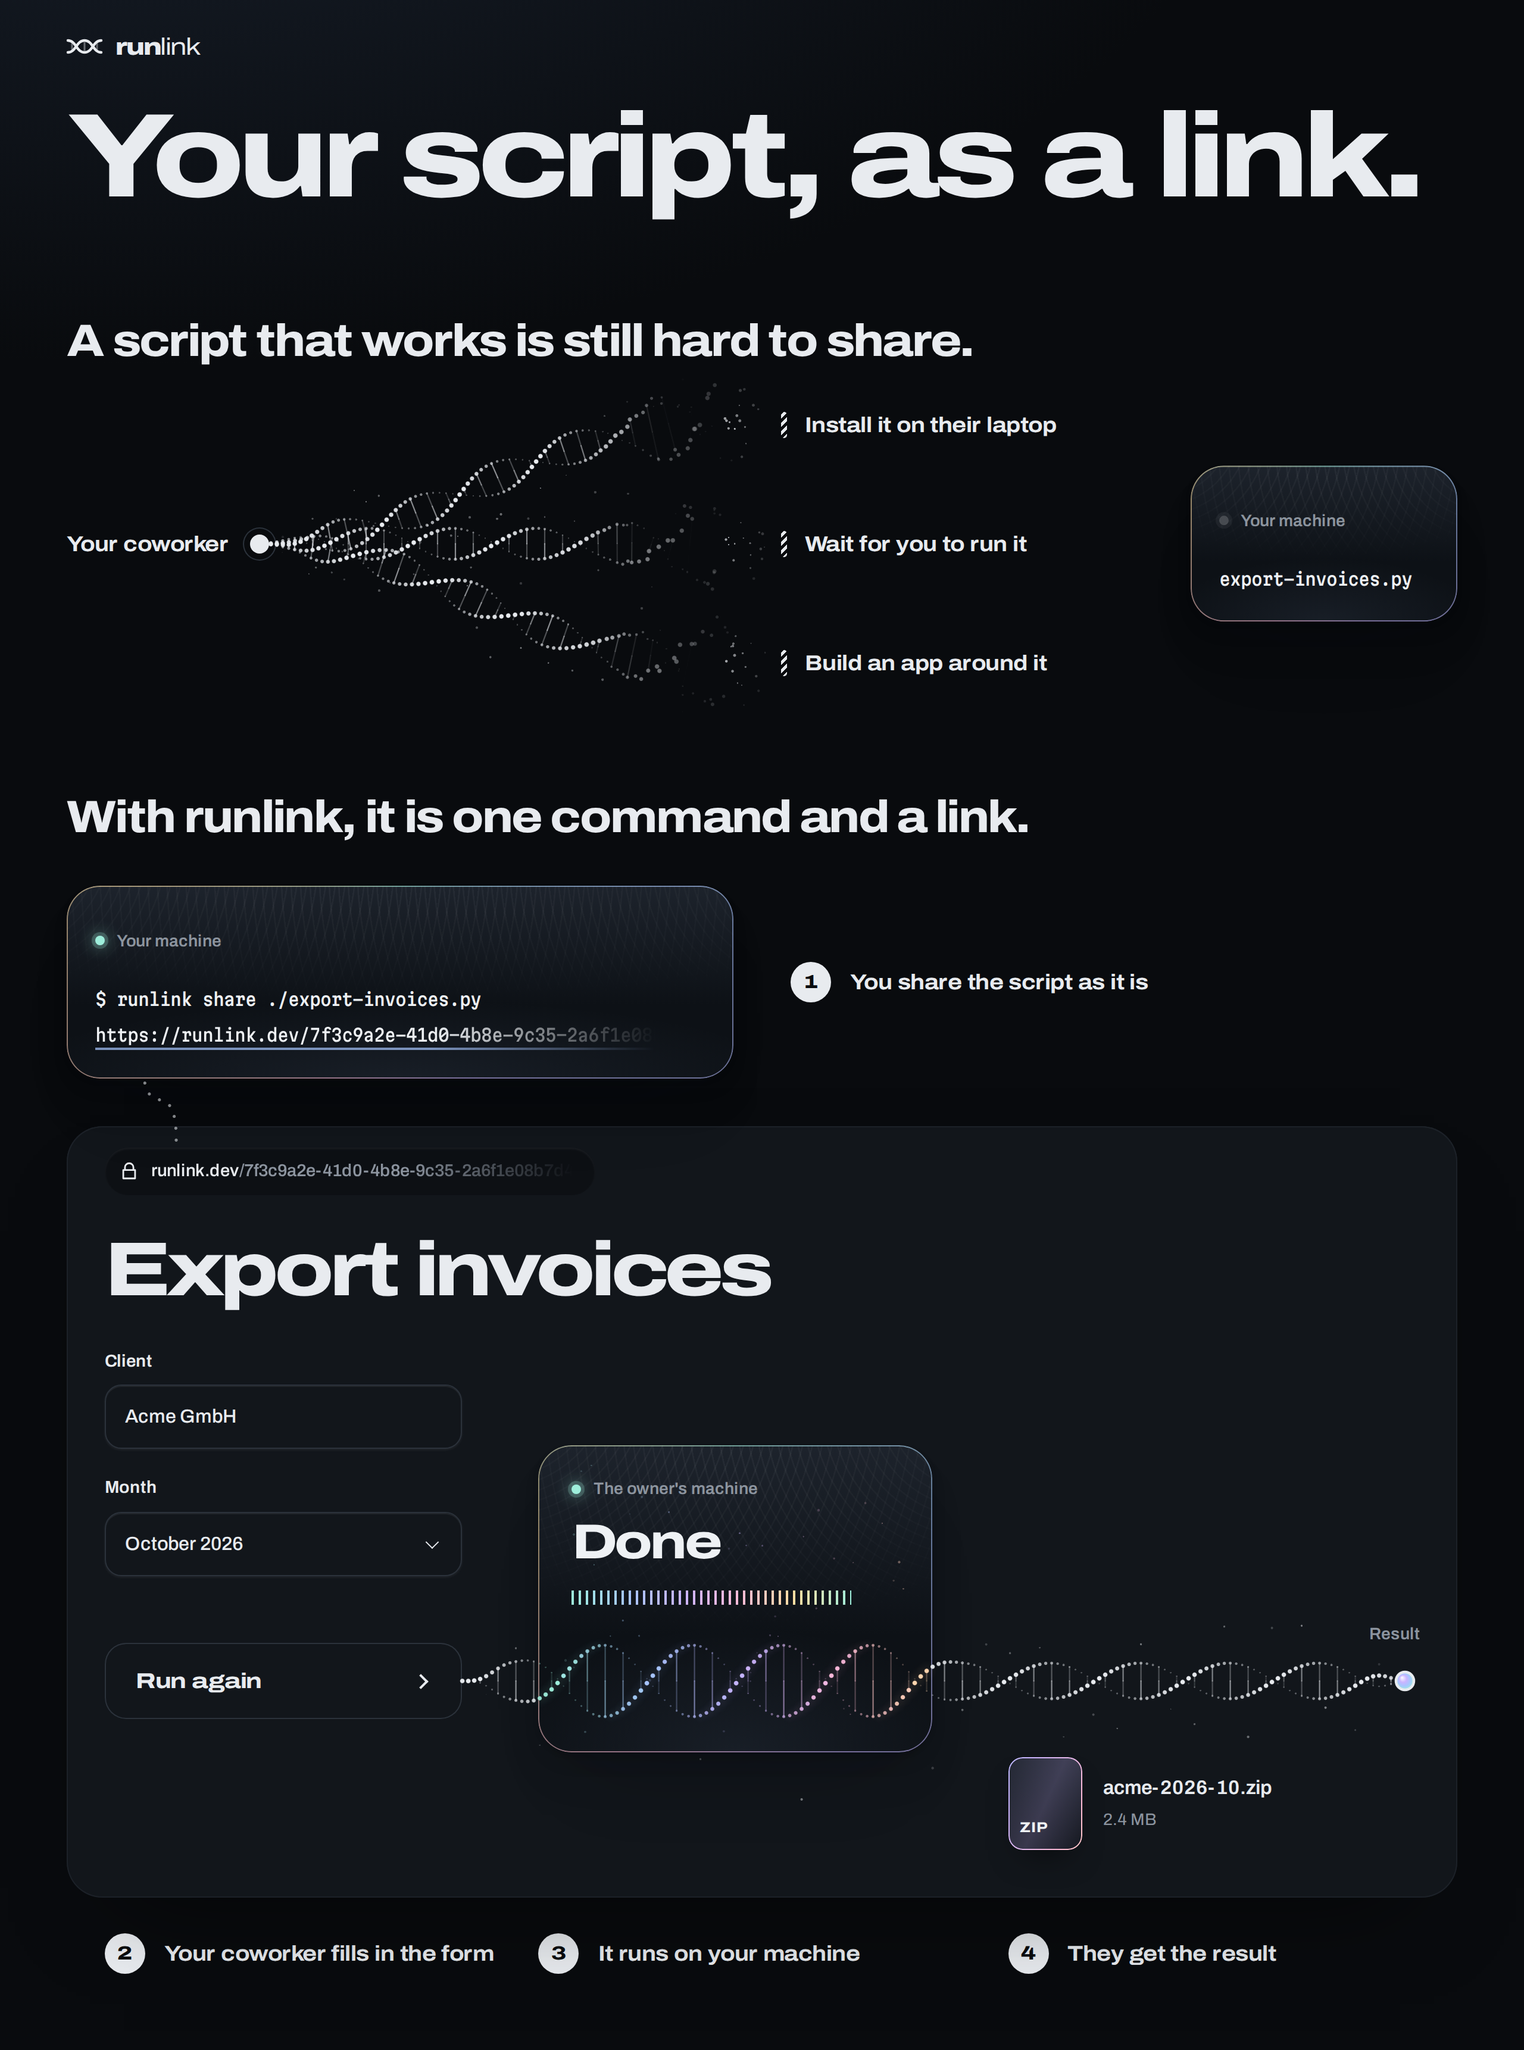
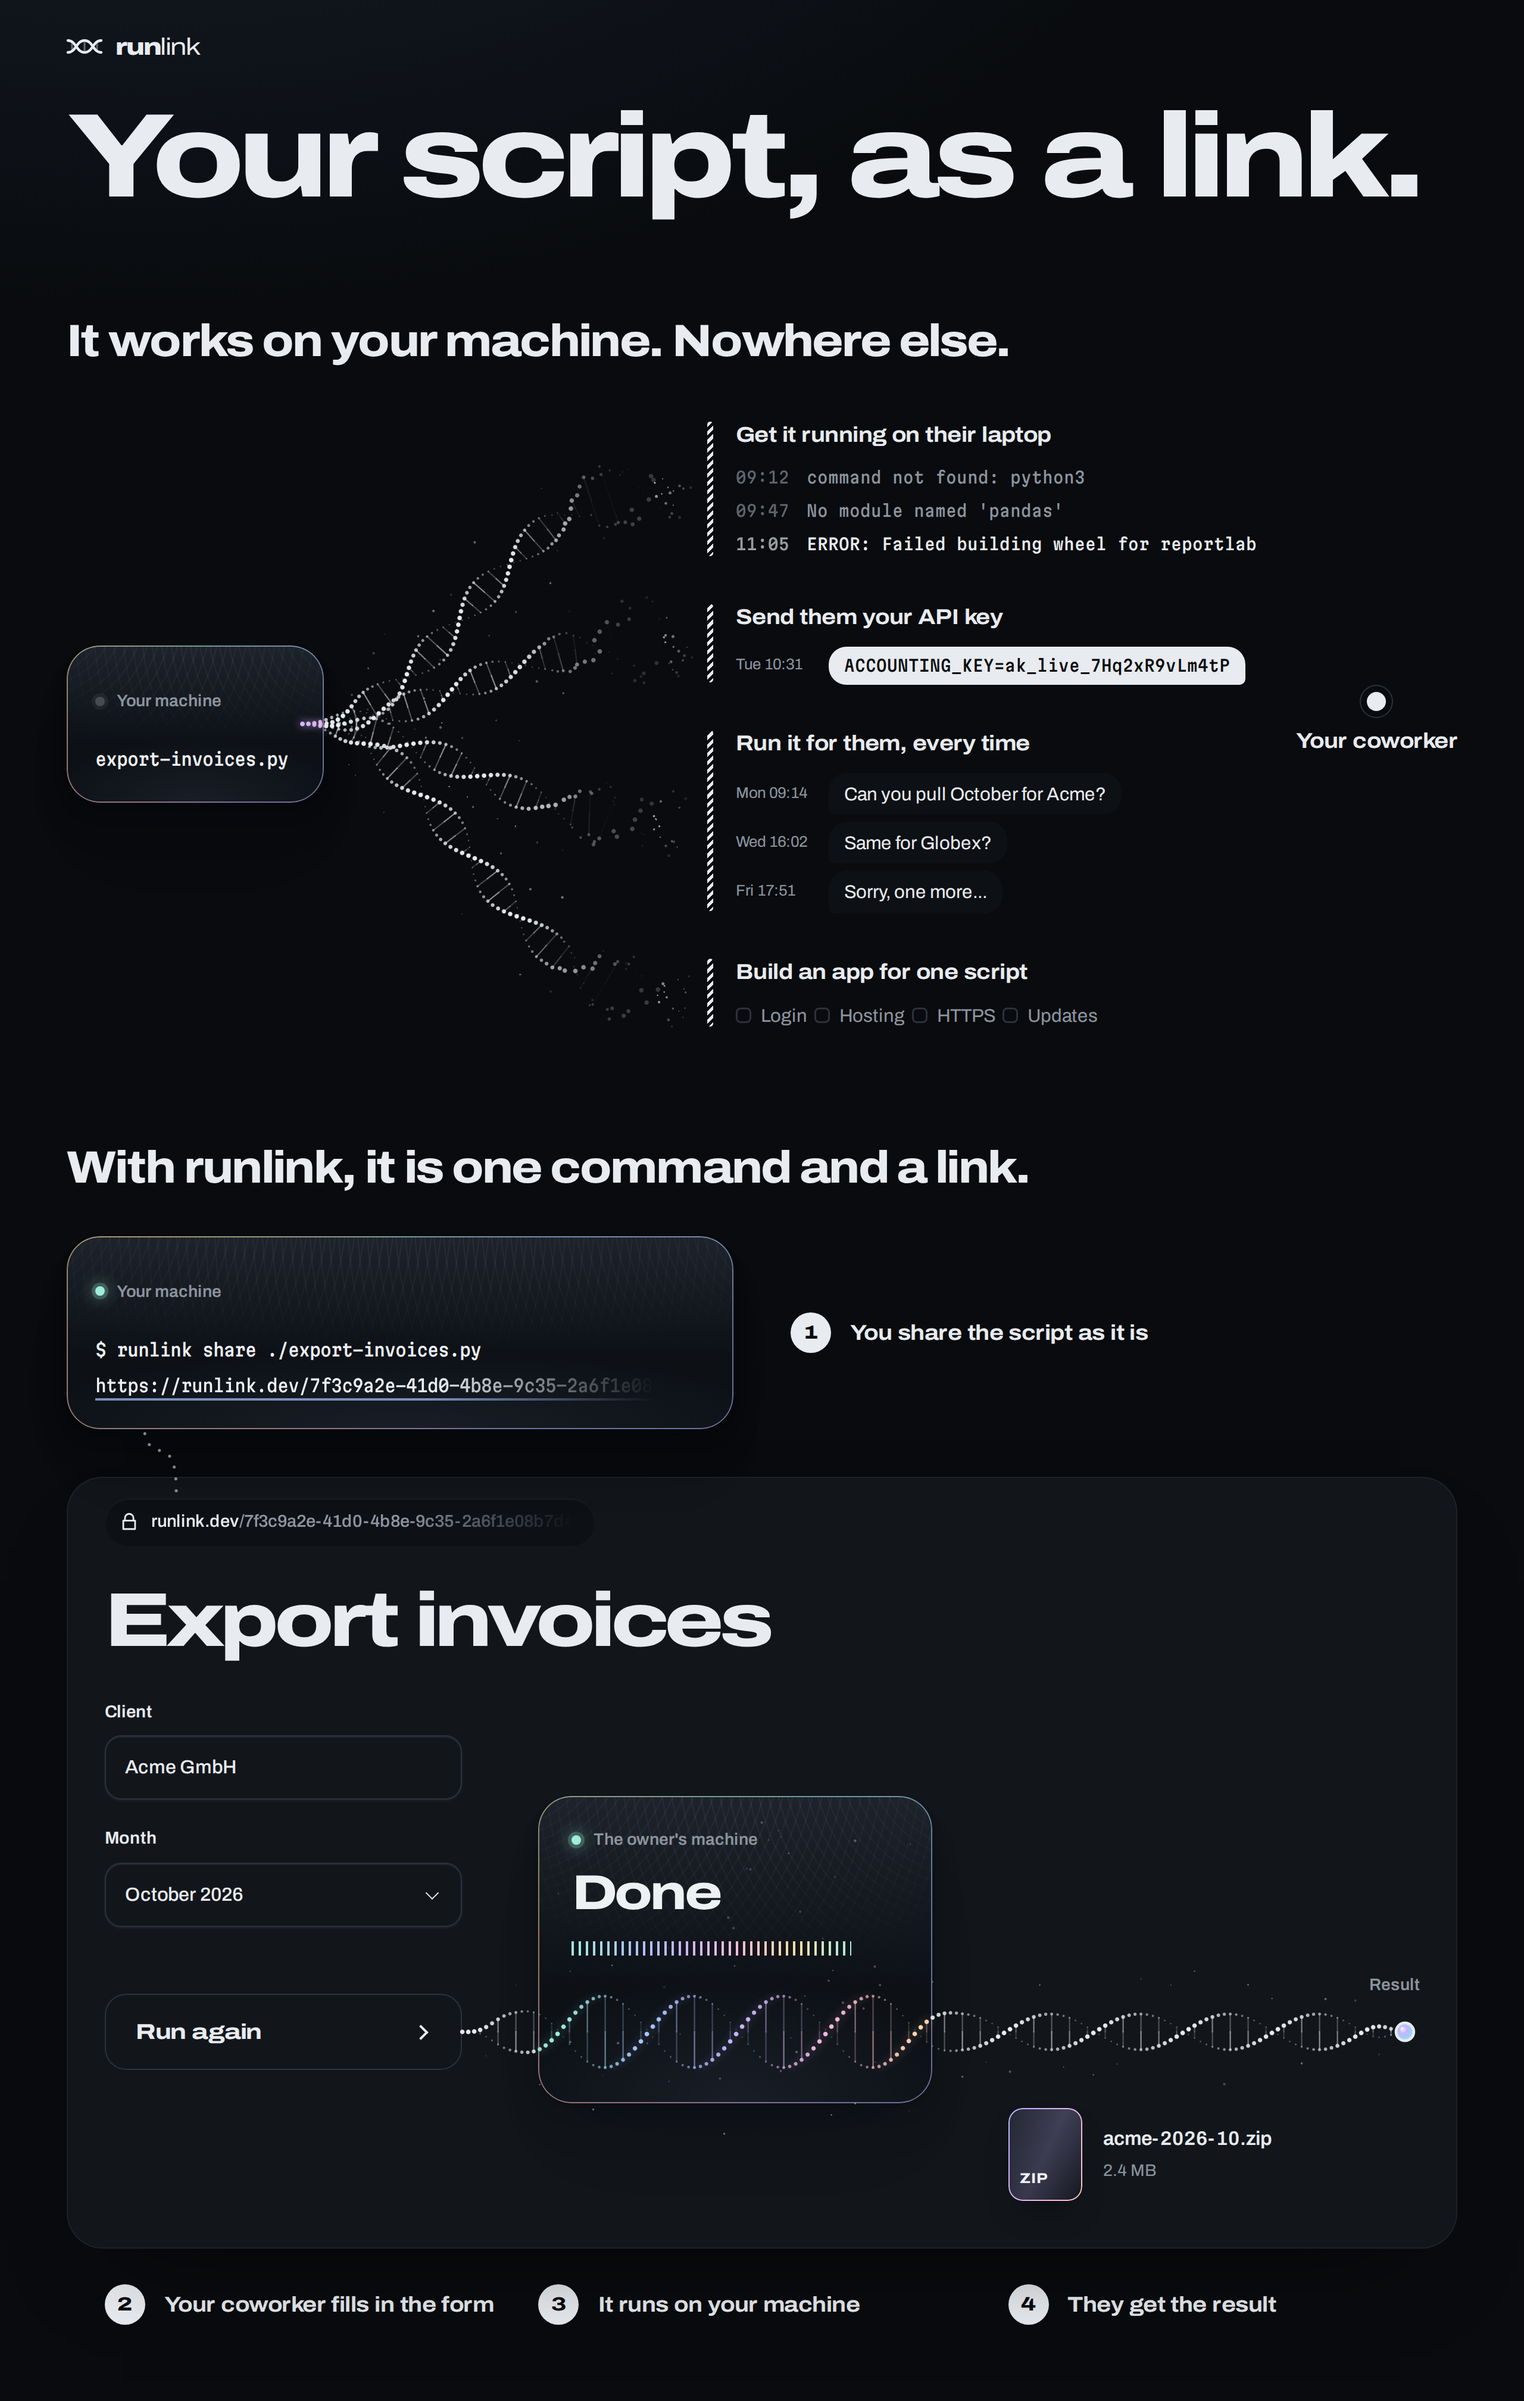
docs: show the pain of sharing a script in the README image
The problem half now shows what each workaround costs, as people meet it:
install errors on the coworker's laptop, an API key pasted into chat,
requests to run it again through Friday evening, and the chores of an app
built for one script. The routes now start at the owner's machine, as the
solution half does.

diff --git a/docs/overview/overview.html b/docs/overview/overview.html
@@ -31,20 +31,33 @@ body { display: block; width: 1280px; min-height: 0; padding-bottom: 64px; }
 h2.say { margin: 0 var(--gutter); font-size: 38px; font-weight: 780; font-stretch: 112.5%; letter-spacing: -.035em; line-height: 1.1; }
 .coworker, .snag, .step { margin: 0; font-size: 18px; font-weight: 700; font-stretch: 112.5%; letter-spacing: -.015em; line-height: 26px; }
 
-/* Today: three routes leave the coworker for the script and fray before they reach it. */
+/* Today: four routes leave your machine for the coworker and fray at a wall, each
+   wall showing the moment it hurts. */
 .today { margin-top: 88px; }
-.routes { position: relative; height: 226px; margin: 36px var(--gutter) 0; }
-.coworker { position: absolute; top: 100px; left: 0; display: flex; align-items: center; gap: 18px; }
-.coworker::after { content: ""; width: 16px; height: 16px; border-radius: 50%; background: var(--ink); box-shadow: 0 0 0 5px var(--paper), 0 0 0 6px var(--edge); }
-.snag { position: absolute; left: 600px; padding-left: 20px; }
-.snag::before { content: ""; position: absolute; top: 2px; bottom: 2px; left: 0; width: 5px; border-radius: 3px;
-  background: repeating-linear-gradient(-45deg, var(--ink) 0 2.5px, transparent 2.5px 5px); }
-.snag:nth-child(2) { top: 0; }
-.snag:nth-child(3) { top: 100px; }
-.snag:nth-child(4) { top: 200px; }
-.box { position: absolute; top: 50%; right: 0; width: 224px; translate: 0 -50%; }
+.routes { display: grid; grid-template-columns: 216px 1fr 480px 150px; margin: 44px var(--gutter) 0; }
+/* Outside the bench, the bench's grid placements do not apply. */
+.routes > * { grid-row: 1; align-self: center; }
+.routes > .box { grid-column: 1; }
 .box .readings, .term .readings { padding: 22px 24px 24px; }
 .box .mono, .term .cmd { margin-top: 12px; font-weight: 500; color: var(--core-ink); }
+.ends { grid-column: 3; display: grid; gap: 36px; }
+.end { position: relative; display: grid; justify-items: start; gap: 12px; padding-left: 24px; }
+.end::before { content: ""; position: absolute; top: 2px; bottom: 2px; left: 0; width: 5px; border-radius: 3px;
+  background: repeating-linear-gradient(-45deg, var(--ink) 0 2.5px, transparent 2.5px 5px); }
+.coworker { grid-column: 4; justify-self: end; white-space: nowrap; display: grid; justify-items: center; gap: 12px; }
+.coworker::before { content: ""; width: 16px; height: 16px; border-radius: 50%; background: var(--ink); box-shadow: 0 0 0 5px var(--paper), 0 0 0 6px var(--edge); }
+.end ol, .end ul { display: grid; gap: 6px; margin: 0; padding: 0; list-style: none; }
+.trace { gap: 2px; font: 450 13.5px/1.65 var(--mono); font-stretch: 87.5%; color: var(--muted); white-space: nowrap; }
+.trace li::before { content: attr(data-t); margin-right: 1.6ch; opacity: .65; }
+.trace li:last-child { color: var(--ink); font-weight: 500; }
+.chat li { display: flex; align-items: center; gap: 12px; font-size: 15.5px; }
+.chat li::before { content: attr(data-t); flex: none; width: 66px; font-size: 13px; color: var(--muted); font-variant-numeric: tabular-nums; }
+.chat span { padding: 6px 13px; border-radius: 15px 15px 15px 5px; background: var(--well); color: var(--ink); }
+.chat .key { border-radius: 15px 15px 5px 15px; background: var(--ink); color: var(--paper); font: 500 13.5px/1.5 var(--mono); font-stretch: 87.5%; }
+.chat .key i { font-style: normal; }
+.todo { display: flex !important; gap: 20px; font-size: 15.5px; color: var(--muted); }
+.todo li { display: flex; align-items: center; gap: 8px; }
+.todo li::before { content: ""; width: 13px; height: 13px; border-radius: 4px; box-shadow: inset 0 0 0 1.5px var(--edge); }
 
 /* With runlink: one command on the owner's machine, one link, the task in a browser. */
 .with { margin-top: 96px; }
@@ -82,16 +95,23 @@ h2.say { margin: 0 var(--gutter); font-size: 38px; font-weight: 780; font-stretc
 </div>
 
 <section class="today">
-<h2 class="say">A script that works is still hard to share.</h2>
+<h2 class="say">It works on your machine. Nowhere else.</h2>
 <div class="routes">
-<p class="coworker">Your coworker</p>
-<p class="snag">Install it on their laptop</p>
-<p class="snag">Wait for you to run it</p>
-<p class="snag">Build an app around it</p>
 <section class="machine box"><div class="etch"></div><div class="readings">
 <h3 class="who">Your machine</h3>
 <p class="mono">export-invoices.py</p>
 </div></section>
+<div class="ends">
+<div class="end"><p class="snag">Get it running on their laptop</p>
+<ol class="trace mono"><li data-t="09:12">command not found: python3</li><li data-t="09:47">No module named 'pandas'</li><li data-t="11:05">ERROR: Failed building wheel for reportlab</li></ol></div>
+<div class="end"><p class="snag">Send them your API key</p>
+<ul class="chat"><li data-t="Tue 10:31"><span class="key">ACCOUNTING_KEY=<i>ak_live_7Hq2xR9vLm4tP</i></span></li></ul></div>
+<div class="end"><p class="snag">Run it for them, every time</p>
+<ul class="chat"><li data-t="Mon 09:14"><span>Can you pull October for Acme?</span></li><li data-t="Wed 16:02"><span>Same for Globex?</span></li><li data-t="Fri 17:51"><span>Sorry, one more...</span></li></ul></div>
+<div class="end"><p class="snag">Build an app for one script</p>
+<ul class="todo"><li>Login</li><li>Hosting</li><li>HTTPS</li><li>Updates</li></ul></div>
+</div>
+<p class="coworker">Your coworker</p>
 </div>
 </section>
 
@@ -146,7 +166,7 @@ h2.say { margin: 0 var(--gutter); font-size: 38px; font-weight: 780; font-stretc
 <script>
 // Paints helix.js's double helix, held still: beads in two strands sized by depth,
 // base pairs between them, ink on the page and nacre inside the machine. Routes that
-// never reach the script fray at their ends; the task's link runs through the machine
+// never reach the coworker fray at their ends; the task's link runs through the machine
 // to the result's pearl. A seeded generator keeps every render the same.
 document.fonts.ready.then(() => {
   const TAU = 2 * Math.PI;
@@ -260,20 +280,20 @@ document.fonts.ready.then(() => {
     }
   }
 
-  // Today: three routes fan out from the coworker and fray short of the script.
-  const start = box(document.querySelector('.coworker'));
-  const from = [start.r - 8, (start.t + start.b) / 2];
-  document.querySelectorAll('.snag').forEach((snag, n) => {
-    const s = box(snag), to = [s.l - 48, (s.t + s.b) / 2], dx = to[0] - from[0];
+  // Today: four routes leave the script and fray at the wall in front of each end.
+  const home = box(document.querySelector('.box'));
+  const from = [home.r - 18, (home.t + home.b) / 2];
+  document.querySelectorAll('.end').forEach((end, n) => {
+    const s = box(end), to = [s.l - 44, (s.t + s.b) / 2], dx = to[0] - from[0];
     const path = walk(from, [from[0] + dx * .4, from[1]], [to[0] - dx * .45, to[1]], to);
-    helix(path, { amp: d => 13 * ramp(0, 70, d), pitch: 140, phase: n * 2.1,
-      fray: d => ramp(path.L - 150, path.L, d) });
-    // What broke off: loose beads ahead of the frayed ends, and the dashed ring of a broken node.
-    const end = path.pts.at(-1);
+    helix(path, { amp: d => 12 * ramp(0, 60, d), pitch: 130, phase: n * 1.7,
+      fray: d => ramp(path.L - 140, path.L, d) });
+    // What broke off: loose beads ahead of the frayed ends.
+    const tip = path.pts.at(-1);
     for (let i = 0; i < 16; i++) {
-      const dist = rand(4, 40), turn = rand(-1.1, 1.1);
-      const x = end.x + (end.tx * Math.cos(turn) - end.ty * Math.sin(turn)) * dist, y = end.y + (end.ty * Math.cos(turn) + end.tx * Math.sin(turn)) * dist;
-      stamp(false, x, y, rand(.6, 1.5), .75 * (1 - dist / 46));
+      const dist = rand(4, 36), turn = rand(-1.1, 1.1);
+      const x = tip.x + (tip.tx * Math.cos(turn) - tip.ty * Math.sin(turn)) * dist, y = tip.y + (tip.ty * Math.cos(turn) + tip.tx * Math.sin(turn)) * dist;
+      stamp(false, x, y, rand(.6, 1.5), .75 * (1 - dist / 42));
     }
   });
 

diff --git a/README.md b/README.md
@@ -6,7 +6,7 @@ owner's machine. See [VISION](VISION.md), [RATIONALE](RATIONALE.md), and the
 
 <picture>
   <source media="(prefers-color-scheme: dark)" srcset="docs/overview/dark.png">
-  <img src="docs/overview/light.png" alt="A script that works is still hard to share: your coworker would have to install it on their laptop, wait for you to run it, or have an app built around it. With runlink, you run runlink share on the script and send the link; your coworker fills in the form in a browser, the script runs on your machine, and they get the result.">
+  <img src="docs/overview/light.png" alt="It works on your machine. Nowhere else: getting it running on a coworker's laptop ends in install errors, sharing it means sending them your API key, running it for them never stops, and an app for one script means login, hosting, HTTPS, and updates. With runlink, you run runlink share on the script and send the link; your coworker fills in the form in a browser, the script runs on your machine, and they get the result.">
 </picture>
 
 This repository contains a locally verified development and shipping foundation
